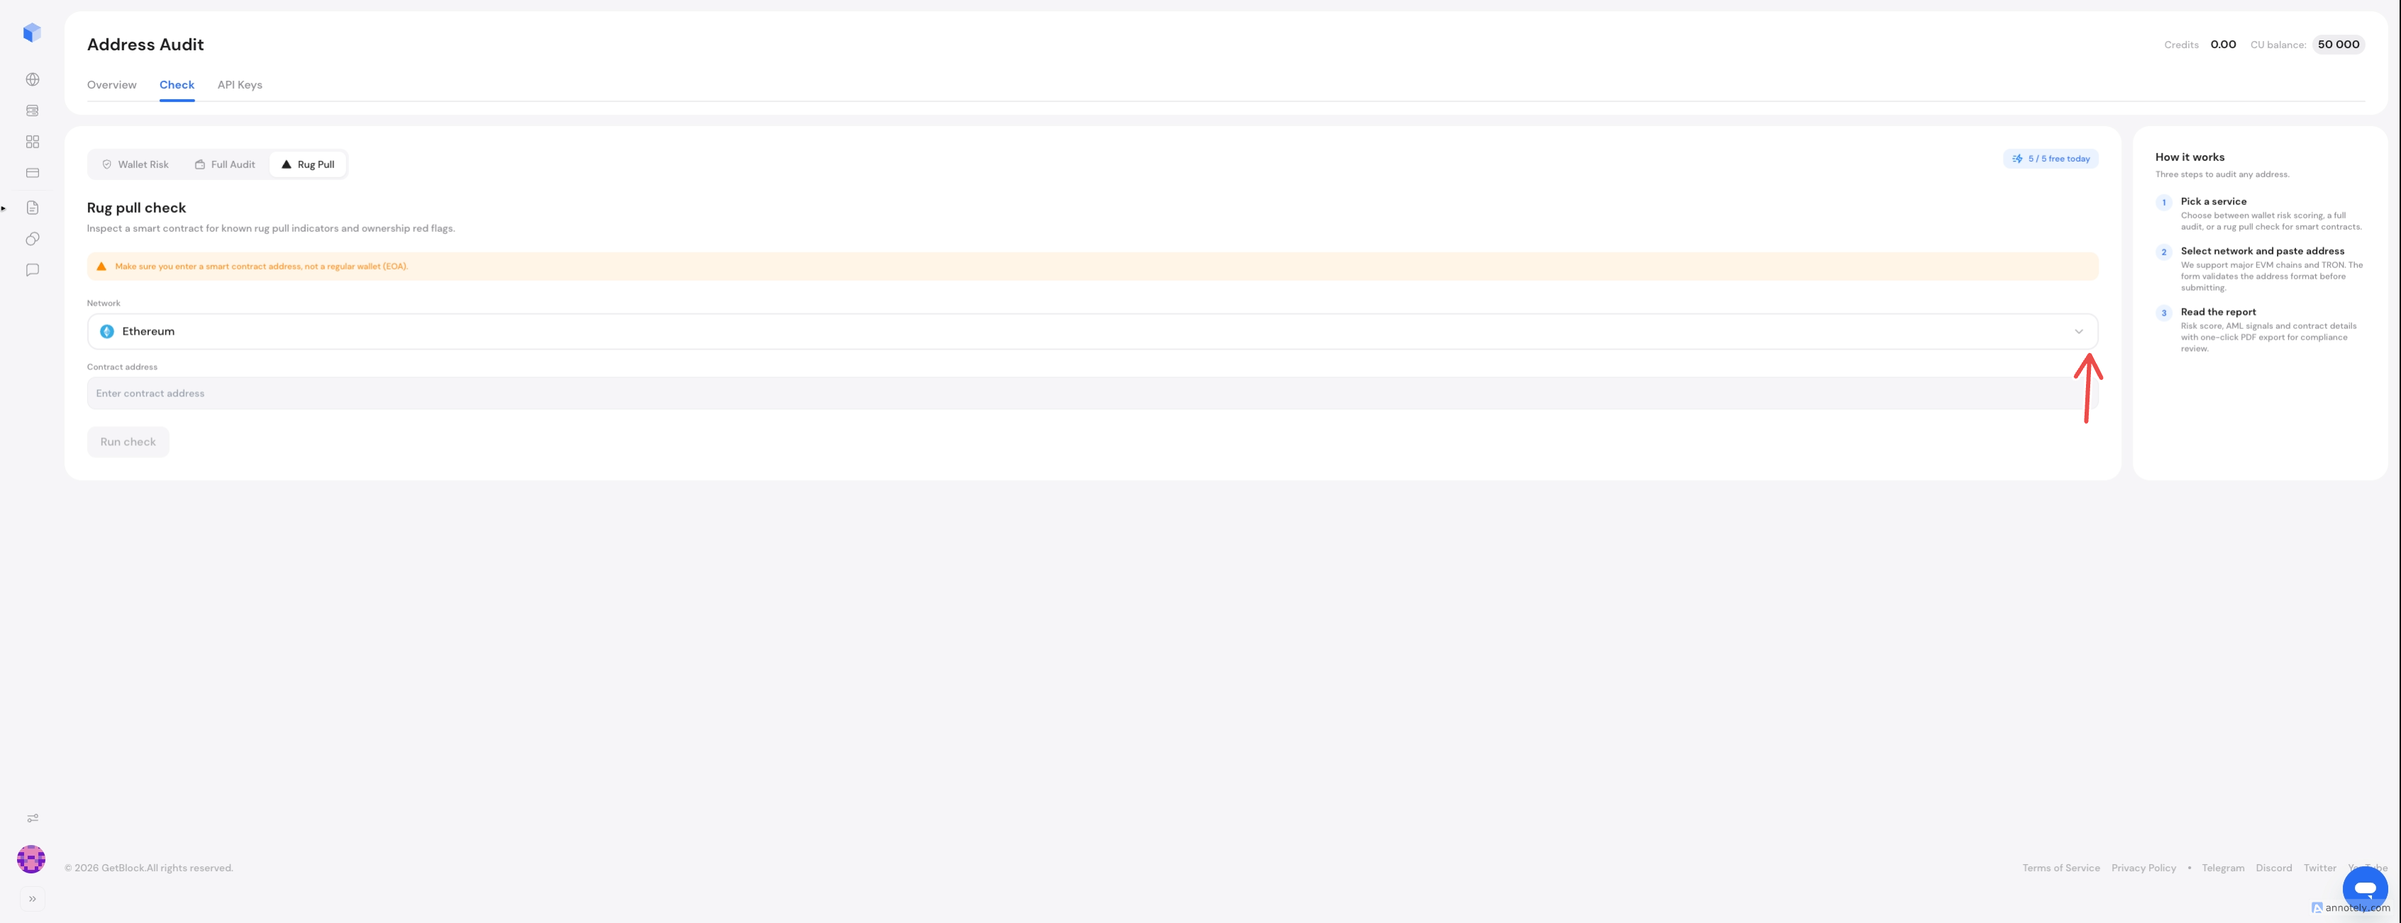
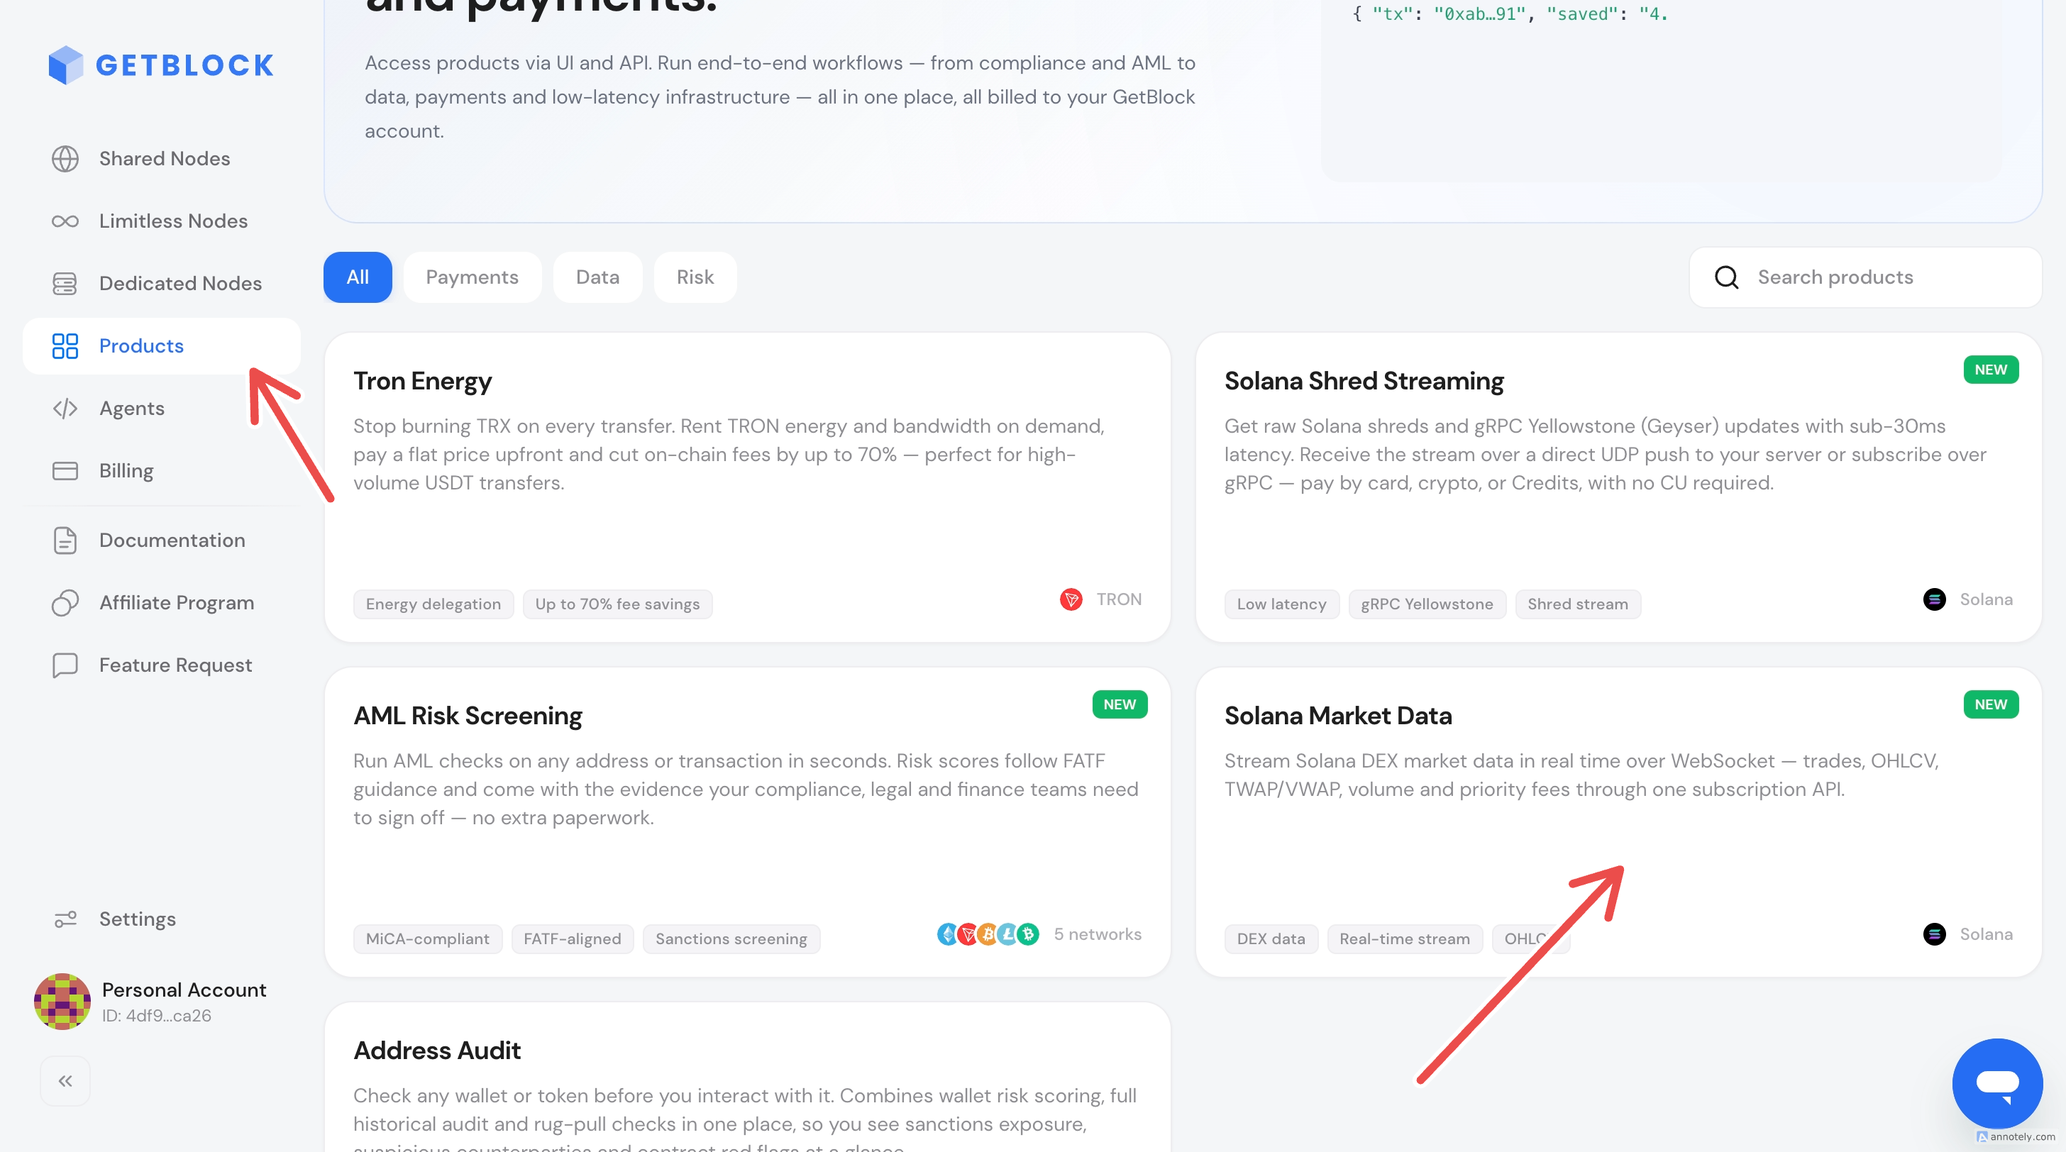
GITBOOK-413: Describe Solana Market Data overview

diff --git a/solana-market-data/overview.md b/solana-market-data/overview.md
@@ -1,11 +1,15 @@
+---
+description: Access low-latency Solana market data through HTTP, WebSocket, and gRPC.
+---
+
 # Overview
 
 Solana Market Data gives you **low-latency, ready-to-use market data from Solana** without the need to build and maintain your own indexing and data-processing infrastructure.
 
-Instead of working with raw blockchain transactions, decoding different DEX programs, and building aggregation pipelines yourself, you can consume already processed market data through a simple API.
+Instead of working with raw blockchain transactions, decoding different DEX[^1] programs, and building aggregation pipelines yourself, you can consume already processed market data through a simple API.
 
 {% hint style="info" %}
-**Solana Market Data** is designed for applications that need **live and recent trading data** — from trading dashboards and analytics platforms to automated and agentic trading systems.
+**Solana Market Data** is designed for applications that need **live, up-to-date trading data** — from trading dashboards and analytics platforms to automated and agentic trading systems.
 {% endhint %}
 
 ### What you can get
@@ -14,15 +18,7 @@ Instead of working with raw blockchain transactions, decoding different DEX prog
 
 Depending on how much processing you want to handle yourself, you can work with:
 
-| Topic    | Description                                     | Required parameters |
-| -------- | ----------------------------------------------- | ------------------- |
-| `trades` | Normalized individual trades                    | None                |
-| `block`  | Trading activity aggregated for one Solana slot | None                |
-| `ohlcv`  | Open, high, low, close, and volume candles      | `window`            |
-| `twap`   | Time-weighted average price                     | `window`            |
-| `vwap`   | Volume-weighted average price                   | `window`            |
-| `volume` | Trading volume and swap activity                | `window`            |
-| `token`  | Token metadata                                  | None                |
+<table data-search="false"><thead><tr><th>Topic</th><th>Description</th><th>Required parameters</th></tr></thead><tbody><tr><td><code>trades</code></td><td>Normalized individual trades</td><td>None</td></tr><tr><td><code>block</code></td><td>Trading activity aggregated for one Solana slot</td><td>None</td></tr><tr><td><code>ohlcv</code></td><td>Open, high, low, close, and volume candles</td><td><code>window</code></td></tr><tr><td><code>twap</code></td><td>Time-weighted average price</td><td><code>window</code></td></tr><tr><td><code>vwap</code></td><td>Volume-weighted average price</td><td><code>window</code></td></tr><tr><td><code>volume</code></td><td>Trading volume and swap activity</td><td><code>window</code></td></tr><tr><td><code>token</code></td><td>Token metadata</td><td>None</td></tr></tbody></table>
 
 You can choose between lower-level trade data and higher-level market metrics that are already calculated for you.
 
@@ -49,21 +45,15 @@ Getting started is straightforward:
 3. **Query or stream the data** using HTTP, WebSocket, or Yellowstone-compatible gRPC.
 
 {% hint style="info" %}
-You can also use the **Playground** to explore available methods and see the data before integrating it into your application.
+You can also use the [**Playground**](https://account.getblock.io/products/solana-data-stream#playground) to explore available methods and see the data before integrating it into your application.
 {% endhint %}
 
-### Which Topic Should I Use?
+### When to use the topics?
 
-| If you need                                           | Use      |
-| ----------------------------------------------------- | -------- |
-| Individual trades and maximum calculation flexibility | `trades` |
-| Market activity for each Solana slot                  | `block`  |
-| Candles or price charts                               | `ohlcv`  |
-| A price weighted by elapsed time                      | `twap`   |
-| A price weighted by traded volume                     | `vwap`   |
-| Buy, sell, and total market activity                  | `volume` |
-| Token metadata                                        | `token`  |
+<table data-search="false"><thead><tr><th>If you need</th><th>Use</th></tr></thead><tbody><tr><td>Individual trades and maximum calculation flexibility</td><td><code>trades</code></td></tr><tr><td>Market activity for each Solana slot</td><td><code>block</code></td></tr><tr><td>Candles or price charts</td><td><code>ohlcv</code></td></tr><tr><td>A price weighted by elapsed time</td><td><code>twap</code></td></tr><tr><td>A price weighted by traded volume</td><td><code>vwap</code></td></tr><tr><td>Buy, sell, and total market activity</td><td><code>volume</code></td></tr><tr><td>Token metadata</td><td><code>token</code></td></tr></tbody></table>
 
 ### Next steps
 
-Explore the available **Market Data methods**, learn how to **connect to the API**, or try the service directly in the **Playground**.
+Explore the available **Market Data methods**, learn how to **connect to the API**, or try the service directly in the [**Playground**](https://account.getblock.io/products/solana-data-stream#playground).
+
+[^1]: Decentralized Exchange

diff --git a/extra-services-for-dedicated-nodes/solana-shreds-streaming.md b/extra-services-for-dedicated-nodes/solana-shreds-streaming.md
@@ -6,7 +6,7 @@ description: >-
 
 # Solana Shreds Streaming
 
-Solana Shreds Streaming delivers raw block data straight from validators, over UDP, before the block is assembled. It gives you the earliest possible view of what is happening on Solana — earlier than any standard RPC or gRPC feed.
+Solana Shreds Streaming delivers raw block data directly from validators over UDP[^1] before the block is assembled. It gives you the earliest possible view of what is happening on Solana — earlier than any standard RPC[^2] or gRPC[^3] feed.
 
 ### What a shred is
 
@@ -23,18 +23,18 @@ flowchart LR
 
 ### What you receive
 
-From the shreds you reconstruct transaction intent as the leader is packing it: transaction signatures, the accounts involved, the instructions (program, accounts, data), address-lookup-table references, and slot numbers. This arrives roughly 100 to 500 milliseconds earlier than a standard commitment-based feed reports the same activity.
+From the shreds, you reconstruct transaction intent as the leader is packing it: transaction signatures, the accounts involved, the instructions (program, accounts, data), address lookup table references, and slot numbers. This arrives roughly 100 to 500 milliseconds earlier than a standard commitment-based feed reports the same activity.
 
 That head start is the entire point. In latency-sensitive strategies, seeing a transaction before it is confirmed is the difference between reacting first and reacting too late.
 
 ### Two ways to use it
 
-1. **As a dedicated node add-on.** You attach shreds streaming to your Solana dedicated node, giving your node and your workloads a faster, steadier source of block data.
-2. **As a standalone service — no node needed.** You top up credits, open a UDP port, and start receiving shreds. You do not run or rent a Solana node at all. Decoding the shreds gives you the transaction data directly, and your credit balance meters the usage.
+1. **As a dedicated node add-on:** You attach shreds streaming to your Solana dedicated node, giving your node and your workloads a faster, steadier source of block data.
+2. **As a standalone service — no node needed:** You top up credits, open a UDP[^1] port, and start receiving shreds. You do not run or rent a Solana node at all. Decoding the shreds gives you the transaction data directly, and your credit balance meters the usage.
 
 ### How the standalone service works
 
-The service connects to validators and forwards their shreds to your listener over UDP. UDP carries the data at wire speed: it has no handshake and no retransmission, so it removes the overhead that slows a TCP-based feed. You run a listener on an open UDP port, decode the incoming shreds into transactions, and act on them.
+The service connects to validators and forwards their shreds to your listener over UDP. UDP carries data at wire speed: it has no handshakes and no retransmissions, so it removes the overhead that slows a TCP-based feed. You run a listener on an open UDP port, decode the incoming shreds into transactions, and act on them.
 
 ### Benefits
 
@@ -53,7 +53,7 @@ The service connects to validators and forwards their shreds to your listener ov
 ### Limitations
 
 * **Pre-execution data only:** Shreds show intent, not results. You do not get success or failure, balance changes, logs, or compute usage, so some transactions you observe will later fail. Treat the stream as a signal, and confirm outcomes through a normal feed.
-* **Possible packet loss:** UDP trades reliability for speed, so a raw stream can drop a packet. This is acceptable for speed-critical work, but you design for it.
+* **Possible packet loss:** UDP trades reliability for speed, so a raw stream may drop packets. This is acceptable for speed-critical work, but you design for it.
 * **You decode the stream:** Raw shreds need a listener that decodes them. This is a low-level integration, not a single RPC call.
 * **Solana only:** Shreds are a Solana concept; the service does not apply to other chains.
 
@@ -64,3 +64,9 @@ The service connects to validators and forwards their shreds to your listener ov
 | Protocol          | UDP (raw shreds)                                        |
 | Access modes      | Dedicated node add-on · standalone credit-based service |
 | Available Regions | `eu-central-1`, `us-east-1`, `ap-southeast-1`           |
+
+[^1]: _UDP_ is a connectionless protocol, meaning that messages are sent without negotiating a connection and that _UDP_ does not keep track of what it has sent.
+
+[^2]: **Remote Procedure Call (RPC)** is a communication protocol that lets a computer program run a function or subroutine on another computer over a network as if it were running locally
+
+[^3]: gRPC is a high-performance, open-source universal remote procedure call (RPC) framework initially created by Google.

diff --git a/solana-market-data/market-data.md b/solana-market-data/market-data.md
@@ -1,10 +1,16 @@
 # Market data
 
-A **Solana Market Data** subscription describes three things: the market pair to observe, the type of data to receive, and how that data should be delivered. The `base` and `quote` mint addresses identify the pair and its direction. The `topic` selects the resulting data model, such as individual trades, **OHLCV** candles, or an aggregated price. Topics such as `ohlcv`, `twap`, `vwap`, and `volume` also use `window` to define their calculation period.
+A **Solana Market Data** subscription describes three things:&#x20;
+
+1. the market pair to observe,
+2. the type of data to receive,&#x20;
+3. and how that data should be delivered.&#x20;
+
+The `base` and `quote` mint addresses identify the pair and its direction. The `topic` selects the resulting data model, such as individual trades, **OHLCV** candles, or an aggregated price. Topics such as `ohlcv`, `twap`, `vwap`, and `volume` also use `window` to define their calculation period.
 
 After accepting a subscription, the service can first send recent rows requested through `hydrate` and then continue streaming live changes. The `throttle` option controls the minimum interval between those updates. It does not change the aggregation window or require the client to wait until that window closes.
 
-The example below subscribes to one-minute **OHLCV** data for the SOL/USDC pair. It requests up to ten initial rows and asks the service to push subsequent changes no more frequently than once per second. Replace the mint addresses, topic, and window to match the market data required by your application.
+The example below subscribes to one-minute **OHLCV** data for the SOL/USDC pair. It requests up to ten initial rows and asks the service to push subsequent changes no more frequently than once per second. Replace the mint addresses, topic, and window to match the market data your application requires.
 
 ### Subscribe Request
 
@@ -97,23 +103,7 @@ The `trades` topic streams normalized individual trades for the selected pair. U
 
 #### Response fields
 
-| Field            | Description                                            |
-| ---------------- | ------------------------------------------------------ |
-| `id`             | Row identifier.                                        |
-| `signature`      | Solana transaction signature.                          |
-| `signer`         | Wallet that signed the transaction.                    |
-| `slot`           | Solana slot in which the trade was observed.           |
-| `timestamp`      | Trade timestamp in ISO 8601 format.                    |
-| `base`           | Mint address of the base token.                        |
-| `quote`          | Mint address of the quote token.                       |
-| `base_amount`    | Base-token amount in the token's smallest units.       |
-| `quote_amount`   | Quote-token amount in the token's smallest units.      |
-| `base_decimals`  | Decimal precision of the base token.                   |
-| `quote_decimals` | Decimal precision of the quote token.                  |
-| `base_volume`    | Human-readable amount of the base token exchanged.     |
-| `quote_volume`   | Human-readable amount of the quote token exchanged.    |
-| `price`          | Trade price expressed in the quote token.              |
-| `is_buy`         | `true` when the observed trade is classified as a buy. |
+<table data-search="false"><thead><tr><th>Field</th><th>Description</th></tr></thead><tbody><tr><td><code>id</code></td><td>Row identifier.</td></tr><tr><td><code>signature</code></td><td>Solana transaction signature.</td></tr><tr><td><code>signer</code></td><td>Wallet that signed the transaction.</td></tr><tr><td><code>slot</code></td><td>Solana slot in which the trade was observed.</td></tr><tr><td><code>timestamp</code></td><td>Trade timestamp in ISO 8601 format.</td></tr><tr><td><code>base</code></td><td>Mint address of the base token.</td></tr><tr><td><code>quote</code></td><td>Mint address of the quote token.</td></tr><tr><td><code>base_amount</code></td><td>Base-token amount in the token's smallest units.</td></tr><tr><td><code>quote_amount</code></td><td>Quote-token amount in the token's smallest units.</td></tr><tr><td><code>base_decimals</code></td><td>Decimal precision of the base token.</td></tr><tr><td><code>quote_decimals</code></td><td>Decimal precision of the quote token.</td></tr><tr><td><code>base_volume</code></td><td>Human-readable amount of the base token exchanged.</td></tr><tr><td><code>quote_volume</code></td><td>Human-readable amount of the quote token exchanged.</td></tr><tr><td><code>price</code></td><td>Trade price expressed in the quote token.</td></tr><tr><td><code>is_buy</code></td><td><code>true</code> when the observed trade is classified as a buy.</td></tr></tbody></table>
 
 ### Block
 

diff --git a/solana-market-data/getting-started.md b/solana-market-data/getting-started.md
@@ -8,18 +8,27 @@ description: >-
 
 ### 1. Activate Solana Market Data
 
-Choose **Solana Market Data** in your GetBlock account and activate a subscription. You can pay using whichever option works best for you:
+1. Log in to your [GetBlock account](https://account.getblock.io/)
+2. Under Products, select **Solana Market Data**
+
+<figure><img src="../.gitbook/assets/image (2).png" alt=""><figcaption></figcaption></figure>
+
+3. To subscribe, select any payment option best for you: &#x20;
 
 * **Card**
 * **Crypto**
 * **Prepaid credits**
 
-Select your preferred payment method in the **side drawer** and complete the purchase.
+{% hint style="success" %}
+Click the **side drawer** to select your preferred payment method, then complete the purchase.
 
-Once the subscription is active, your API key will be enabled for **Solana Market Data**.
+![](<../.gitbook/assets/image (3).png>)
+{% endhint %}
+
+4. Once the subscription is active, your API key will be enabled for **Solana Market Data**.
 
 {% hint style="info" %}
-Need an API key? You can create one in **Settings → API Keys** in your GetBlock account.
+Need an API key? You can create one [API Key tab](https://account.getblock.io/products/solana-data-stream#api-keys)
 {% endhint %}
 
 ### 2. Select a token pair
@@ -33,10 +42,10 @@ To choose the market you want to track, provide the mint addresses for:
 
 For example, to receive market data for **SOL/USDC**, select the corresponding **SOL** and **USDC** mint addresses as your base and quote assets.
 
-The selected pair is then used across the available methods, such as **Trades, Blocks, VWAP, TWAP, Volume, and Candles**.
+The selected pair is then applied across the available methods, including **Trades, Blocks, VWAP, TWAP, Volume, and Candles**.
 
 {% hint style="info" %}
-You can select the Base Mint and Quote Mint directly in the **Playground** to explore the data for a specific pair before integrating it into your application.
+You can select the Base Mint and Quote Mint directly in the [**Playground**](https://account.getblock.io/products/solana-data-stream#playground) to explore the data for a specific pair before integrating it into your application.
 {% endhint %}
 
 ### 3. Choose the data you need
@@ -45,21 +54,13 @@ You can select the Base Mint and Quote Mint directly in the **Playground** to ex
 
 Choose the method that best matches your use case:
 
-| Method                | Best for                                  |
-| --------------------- | ----------------------------------------- |
-| **Trades**            | Individual normalized trades              |
-| **Blocks**            | Market activity aggregated by Solana slot |
-| **VWAP**              | Volume-weighted market price              |
-| **TWAP**              | Time-weighted market price                |
-| **Volume**            | Trading activity and traded volume        |
-| **Candles**           | OHLCV charts and price visualization      |
-| **Buy/Sell Activity** | Comparing buying and selling activity     |
+<table data-search="false"><thead><tr><th>Method</th><th>Best for</th></tr></thead><tbody><tr><td><strong>Trades</strong></td><td>Individual normalized trades</td></tr><tr><td><strong>Blocks</strong></td><td>Market activity aggregated by Solana slot</td></tr><tr><td><strong>VWAP</strong></td><td>Volume-weighted market price</td></tr><tr><td><strong>TWAP</strong></td><td>Time-weighted market price</td></tr><tr><td><strong>Volume</strong></td><td>Trading activity and traded volume</td></tr><tr><td><strong>Candles</strong></td><td>OHLCV charts and price visualization</td></tr><tr><td><strong>Buy/Sell Activity</strong></td><td>Comparing buying and selling activity</td></tr></tbody></table>
 
 ### 4. Select how you want to consume the data
 
 You can access **Solana Market Data** through several protocols.
 
-#### HTTP
+#### 1. HTTP
 
 Use HTTP when you need a single response or want to retrieve the latest available data.
 
@@ -69,7 +70,7 @@ Typical use cases include:
 * retrieving recent trades;
 * loading data when your application starts.
 
-#### WebSocket
+#### 2. WebSocket
 
 Use WebSocket when you need continuous live updates.
 
@@ -80,7 +81,7 @@ It is suitable for:
 * continuously updated charts;
 * real-time market monitoring.
 
-#### gRPC
+#### 3. gRPC
 
 Use the gRPC interface for server-side streaming and integrations that already use a Yellowstone-style workflow.
 

diff --git a/SUMMARY.md b/SUMMARY.md
@@ -50,8 +50,8 @@
 * [Custom Endpoint URL](extra-services-for-dedicated-nodes/custom-endpoint-url.md)
 * [Dedicated Ingress Proxy](extra-services-for-dedicated-nodes/dedicated-ingress-proxy.md)
 * [IP Allowlist](extra-services-for-dedicated-nodes/ip-allowlist.md)
-* [Solana Shreds Streaming](extra-services-for-dedicated-nodes/solana-shreds-streaming.md)
 * [Nonstandard Client Support](extra-services-for-dedicated-nodes/nonstandard-client-support.md)
+* [Solana Shreds Streaming](extra-services-for-dedicated-nodes/solana-shreds-streaming.md)
 * [Unified Multichain Endpoint](extra-services-for-dedicated-nodes/unified-multichain-endpoint.md)
 * [Zero-hop Node Access](extra-services-for-dedicated-nodes/zero-hop-node-access.md)
 
